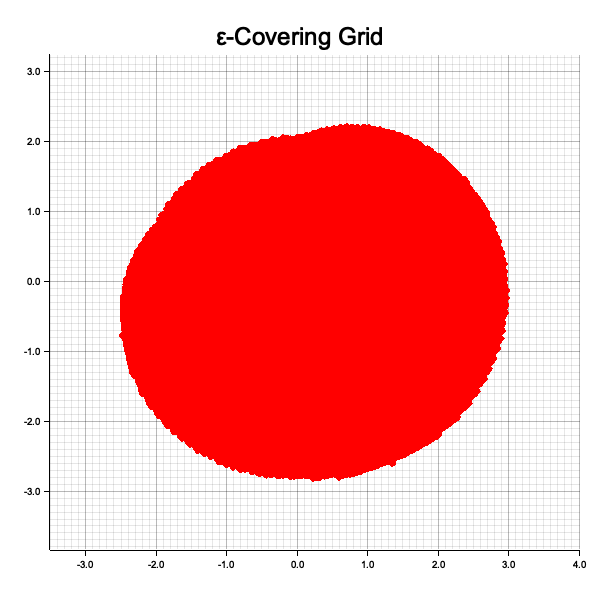
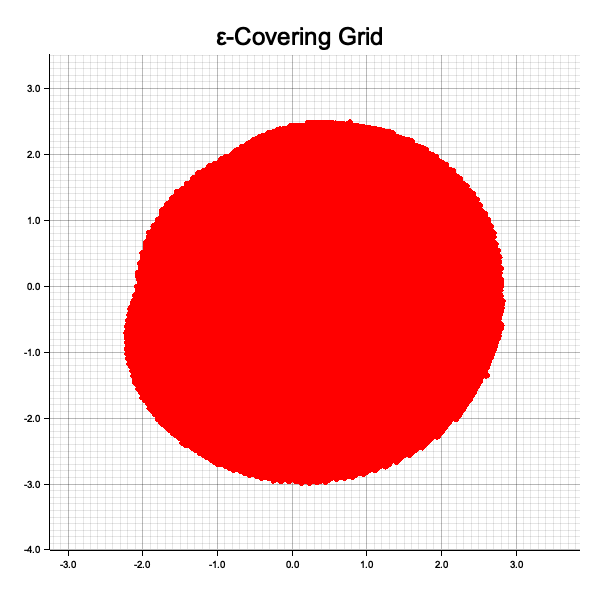
calculating all words

Changed region(s): [[0.03, 0.09, 0.96, 0.96], [0.96, 0.93, 0.99, 0.96]]

diff --git a/src/evaluation.rs b/src/evaluation.rs
@@ -4,23 +4,25 @@ use std::sync::Arc;
 use futures::stream::{self, StreamExt};
 use num_cpus;
 
-use crate::covering_grids::{unit_disk_n, covering_grid_bitmap};
+use crate::corollary_2::{certify_r_hat_rho, calculate_epsilon};
+use crate::covering_grids::{covering_grid_bitmap, unit_disk_n, unit_disk_radius, create_covering_grid};
 use crate::dyadic::{Dyadic, ComplexDyadic};
 use crate::edt::landau_l_via_edt_from_bitmap;
 use crate::holomorphic::{BoundingSequence, ComplexFunction, ExpansionCoefficients};
 use crate::psi::{psi_infinity, t_vector, generate_all_words};
+use crate::plot::{plot_covering_grid, plot_set};
 
 pub async fn calculate_for_length(
     length: usize,
     delta: Dyadic,
-    disk_radius: i32,
+    disk_accuracy: i32,
     m_seq : Vec<Dyadic>,
 ) -> (Vec<u8>, f64) {
     let epsilon = delta * Dyadic::new(1, 2) ;
     
     let m_seq1  = Arc::new(m_seq);
     let t_seq = Arc::new(t_vector(100));
-    let domain = Arc::new(unit_disk_n(disk_radius));
+    let domain = Arc::new(unit_disk_n(disk_accuracy));
     let concurrency = num_cpus::get().max(1);
     // println!("Working on {} CPU cores", concurrency) ;
     let words: Vec<Vec<u8>> = generate_all_words(length);
@@ -28,14 +30,14 @@ pub async fn calculate_for_length(
     let mut results = stream::iter(words.into_iter())
         .map(|word| {
             let domain = Arc::clone(&domain);
-            let m_seq  = Arc::clone(&m_seq1);
+            let m_seq2  = Arc::clone(&m_seq1);
             let t_seq  = Arc::clone(&t_seq);
 
             tokio::task::spawn_blocking(move || {
                 // Build f' from the word, then integrate to f
-                let coeffs = psi_infinity(&m_seq, &t_seq, &word);
+                let coeffs = psi_infinity(&m_seq2, &t_seq, &word);
                 let fprime = ComplexFunction::new(
-                    BoundingSequence::new((*m_seq).clone()),
+                    BoundingSequence::new((*m_seq2).clone()),
                     ExpansionCoefficients::new(coeffs),
                 );
                 let f = fprime.antiderivative();
@@ -115,7 +117,6 @@ pub async fn sweep_mseq_len3(
         }
     }
 
-    // Print nicely
     println!("=== Top 3 m_seq by approx (ascending) ===");
     for (rank, e) in top3.iter().enumerate() {
         let ms = e
@@ -137,4 +138,85 @@ pub async fn sweep_mseq_len3(
         .into_iter()
         .map(|e| (e.m_seq, e.word, e.approx))
         .collect()
+}
+// we just use this to calculate disk_accuracy
+fn minimal_pow2_step_below(eps: Dyadic) -> (i32, Dyadic) {
+    assert!(eps > Dyadic::zero(), "eps must be > 0");
+    // Start with n = ceil(-log2(eps)) using f64 to get a candidate…
+    let mut n = (-eps.to_f64().log2()).ceil() as i32;
+    // …and then check/adjust in exact dyadics to ensure strict inequality.
+    let mut step = Dyadic::new(1, -n).reduce(); // 2^{-n}
+    if step >= eps {
+        n += 1;
+        step = Dyadic::new(1, -n).reduce();
+    }
+    (-n-1, step)
+}
+// calculates the approximation for a certain word on a disk with radius 1-2^(-n), as described in corollary 2.
+pub async fn calculate_for_word_updated(word : Vec<u8>, disk_decrease : i32, m_seq : Vec<Dyadic>, plot : bool) -> f64 {
+    let r_dy = (Dyadic::new(1, 0) - Dyadic::new(1, disk_decrease)).reduce();
+    let r_f = r_dy.to_f64() ; 
+    let m_seq1  = Arc::new(m_seq);
+    let t_seq = Arc::new(t_vector(100));
+    let n_samples = 500 ; //subject to change!
+    tokio::task::spawn_blocking(move || {
+        // Build f' from the word, then integrate to f
+        let coeffs = psi_infinity(&m_seq1, &t_seq, &word);
+        let fprime = ComplexFunction::new(
+            BoundingSequence::new((*m_seq1).clone()),
+            ExpansionCoefficients::new(coeffs),
+        );
+        let f = fprime.antiderivative();;
+        
+        let (r_hat, rho) = certify_r_hat_rho(r_dy, &fprime, n_samples, 30, 30) ;
+        let mut eps = calculate_epsilon(r_f, r_hat, rho);
+        let min_eps = Dyadic::new(1, -6); // THIS IS CUSTOM FIX!!!
+        if eps < min_eps {
+            eps = min_eps;
+        }
+        assert!(eps > Dyadic::zero(), "ε came out zero; cannot proceed");
+        let delta = (eps * Dyadic::new(1, -2)).reduce();
+        let (acc_n, _step) = minimal_pow2_step_below(eps);
+        let domain = unit_disk_radius(acc_n, r_f) ;
+        let mut img: Vec<ComplexDyadic> = Vec::with_capacity(domain.len());
+        for &z in domain.iter() {
+            img.push(f.eval(&z));
+        } 
+        let grid_bitmap = covering_grid_bitmap(&img, eps, delta);
+        let l_val = landau_l_via_edt_from_bitmap(&grid_bitmap, delta);
+        if plot {
+            plot_set(&img, "test_image.png");
+            let grid_set = create_covering_grid(&img, eps, delta);
+            plot_covering_grid(&grid_set, "test_grid.png");
+        }
+        l_val
+    }) 
+    .await
+    .expect("worker panicked")
+}
+
+pub async fn calculate_for_all_words_updated(
+    length: usize,
+    disk_decrease: i32,
+    m_seq: Vec<Dyadic>,
+) -> f64 {
+    let words: Vec<Vec<u8>> = generate_all_words(length);
+
+    let mut best_l = f64::INFINITY;
+    let mut best_word: Vec<u8> = Vec::new();
+
+    // Evaluate each word (no plots during the sweep)
+    for w in &words {
+        let l = calculate_for_word_updated(w.clone(), disk_decrease, m_seq.clone(), false).await;
+        if l < best_l {
+            best_l = l;
+            best_word = w.clone();
+        }
+    }
+
+    // Re-run the best one with plotting enabled
+    let _ = calculate_for_word_updated(best_word.clone(), disk_decrease, m_seq.clone(), true).await;
+
+    println!("Best word (len {}): {:?}\nMin approx = {}", length, best_word, best_l);
+    best_l
 }

diff --git a/src/main.rs b/src/main.rs
@@ -9,7 +9,7 @@ use landau::holomorphic::{
 };
 use landau::psi::{generate_all_words, psi_infinity, t_vector, m_vec, generate_word};
 use landau::edt::{landau_l_via_edt_from_bitmap, landau_l_with_edt_from_complex_set, print_grid} ;
-use landau::evaluation::{calculate_for_length, sweep_mseq_len3} ;
+use landau::evaluation::{calculate_for_all_words_updated, calculate_for_length, calculate_for_word_updated, sweep_mseq_len3} ;
 use landau::corollary_2::{calculate_epsilon, certify_r_hat_rho};
 
 use std::vec;
@@ -104,8 +104,8 @@ async fn main() -> Result<(), Box<dyn std::error::Error>> {
     println!("best approx for all words with this length is: {}, best word is : {:?}", approx_length, best_word_length) ;
     let t_seq1 = t_vector(100);
     let m_seq1 = vec![
-        Dyadic::new(1, -1),
-        Dyadic::new(1, -1),
+        Dyadic::new(1, -2),
+        Dyadic::new(1, -2),
         Dyadic::new(1, -2),
         Dyadic::new(1, -3),
         Dyadic::new(1, -3),
@@ -134,11 +134,8 @@ async fn main() -> Result<(), Box<dyn std::error::Error>> {
         Dyadic::new(1, 0), 
     ];
     // let _top3 = sweep_mseq_len3(&possible_m, 6, delta, -7).await;
-    let r = Dyadic::new(1,0) - Dyadic::new(1,-6);
-    let (r_hat, rho) = certify_r_hat_rho(r, &fprime, 500, 20, 20);
-    let eps = calculate_epsilon(r.to_f64(), r_hat, rho);
-    println!("{:?}, {:?}, {:?}", r_hat.to_f64(), rho.to_f64(), eps) ;
-
+    let val = calculate_for_all_words_updated(6, -1, m_seq2).await;
+    println!("{}", val) ;
     Ok(())
 }
 

diff --git a/src/covering_grids.rs b/src/covering_grids.rs
@@ -24,13 +24,13 @@ pub fn unit_disk_n( n : i32) -> Vec<ComplexDyadic> { //could be improved, we che
     return points
 }
 // unit_disk_radius return a unit disk wiht radius r, and n determines how dense the inside of the disk is
-pub fn unit_disk_radius(n : i32, r : f64) -> Vec<ComplexDyadic>{
+pub fn unit_disk_radius(disk_accuracy : i32, r : f64) -> Vec<ComplexDyadic>{
     let mut points = Vec::new()  ;
-    let max = (2i128).pow(-n as u32) ;
+    let max = (2i128).pow(-disk_accuracy as u32) ;
     for real in -max..=max {
         for imaginary in -max..=max {
-            let re = Dyadic::new(real, n) ;
-            let im = Dyadic::new(imaginary, n) ;
+            let re = Dyadic::new(real, disk_accuracy) ;
+            let im = Dyadic::new(imaginary, disk_accuracy) ;
             let z = ComplexDyadic::new(re, im) ;
             if z.abs() <= r {
                 points.push(z)
